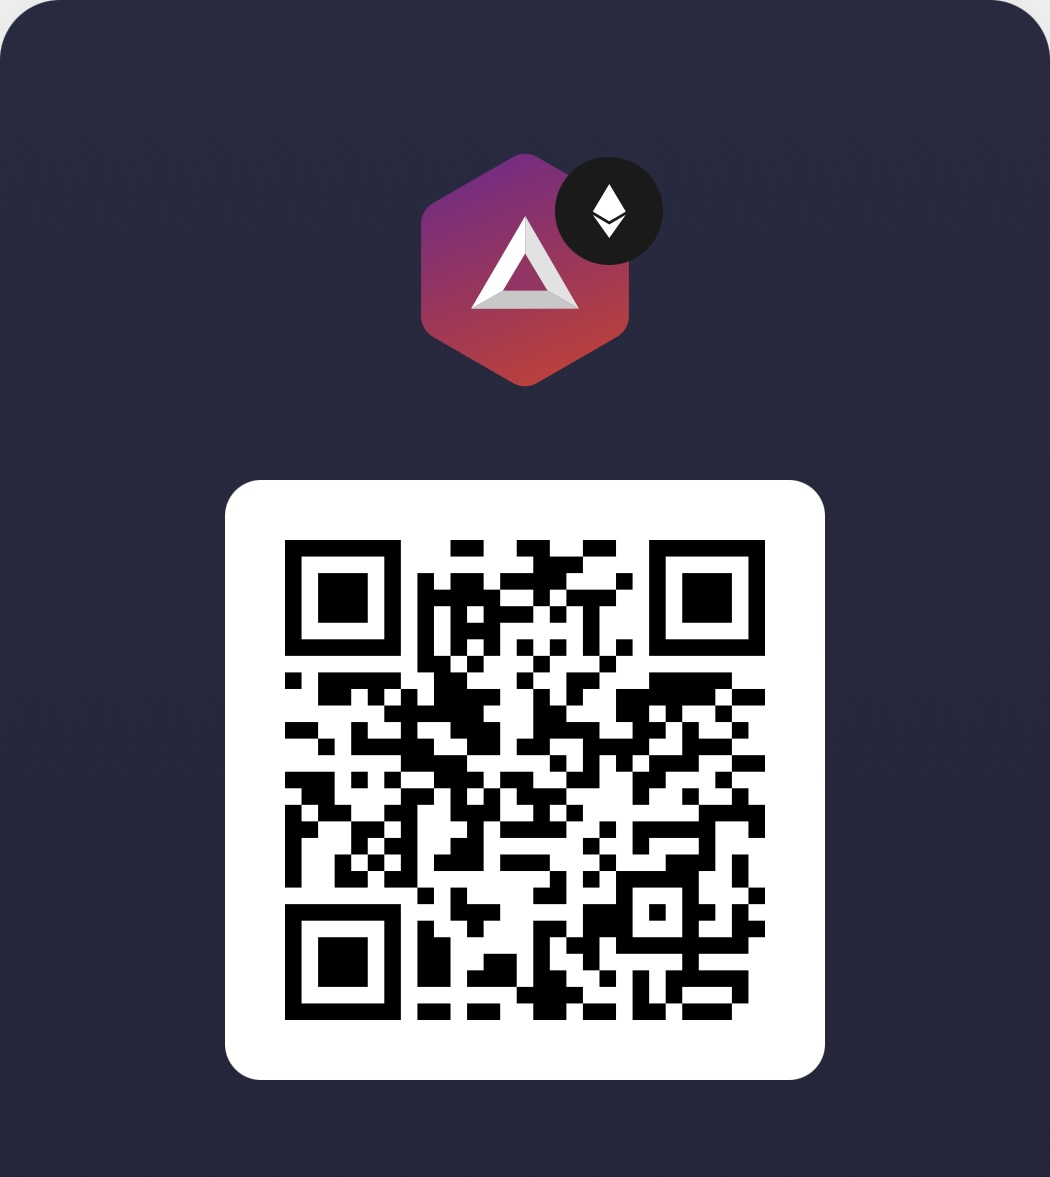
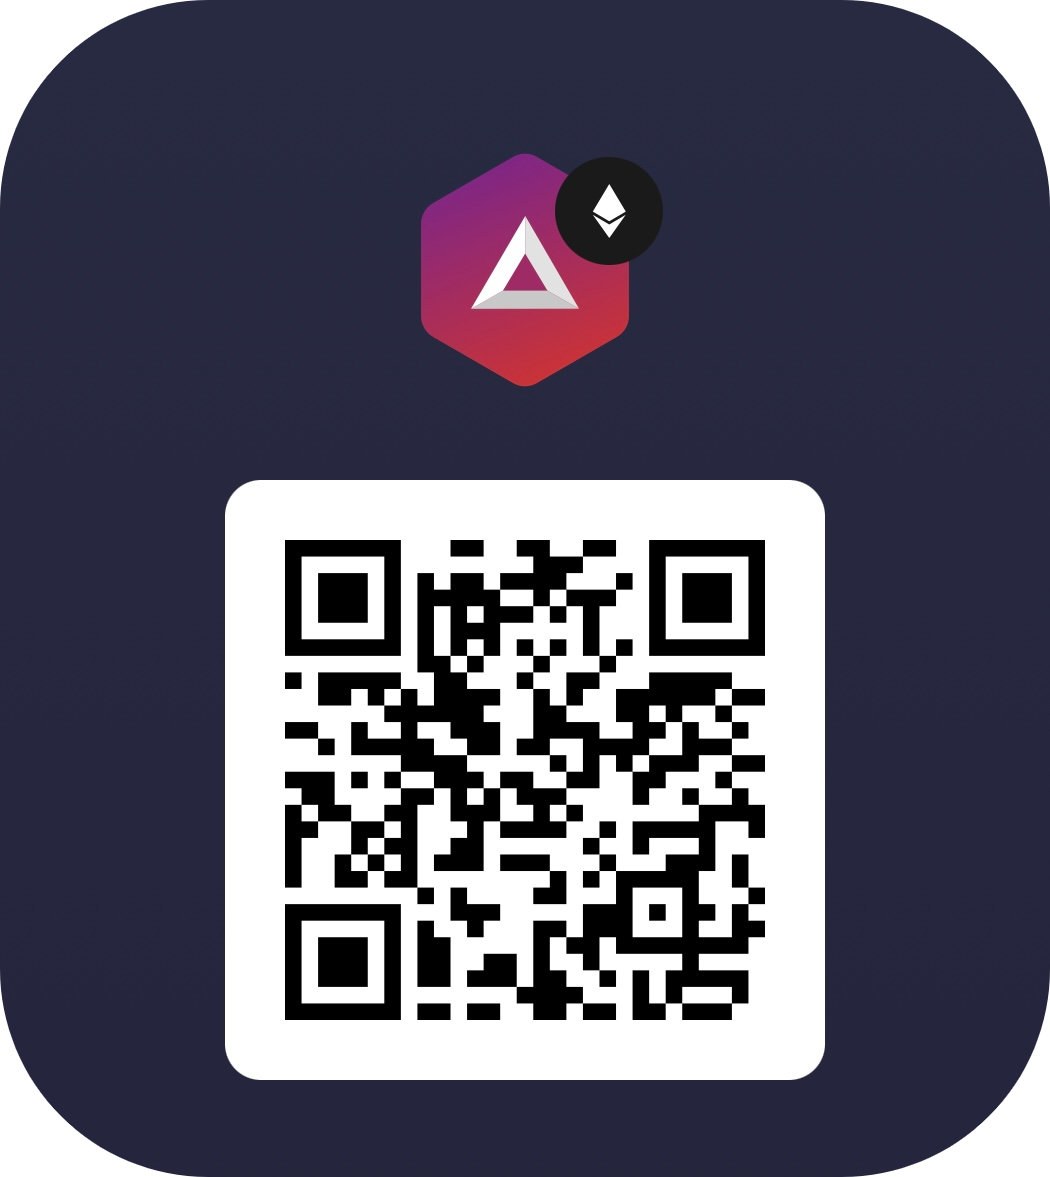
README update

diff --git a/README.md b/README.md
@@ -34,28 +34,28 @@
   <table>
     <tr>
       <td align="center">
-        <img src="./assets/images/QR/btc_adress.png" width="150" style="border-radius: 10px" />
+        <img src="./assets/images/QR/btc_adress.png" width="150"/>
         <br />
         <strong>BTC</strong>
         <br />
         <code>bc1q0m5e0lp73m20skkj9cc2purvl43ch3lslxkh63</code>
       </td>
       <td align="center">
-        <img src="./assets/images/QR/eth_adress.png" width="150" style="border-radius: 10px" />
+        <img src="./assets/images/QR/eth_adress.png" width="150"/>
         <br />
         <strong>ETH</strong>
         <br />
         <code>0xdf25A33FbCb8aBDb7727A6E31A4eA619B9Df4546</code>
       </td>
       <td align="center">
-        <img src="./assets/images/QR/bat-eth_adress.png" width="150" style="border-radius: 10px" />
+        <img src="./assets/images/QR/bat-eth_adress.png" width="150"/>
         <br />
         <strong>BAT (ETH)</strong>
         <br />
         <code>0xdf25A33FbCb8aBDb7727A6E31A4eA619B9Df4546</code>
       </td>
       <td align="center">
-        <img src="./assets/images/QR/ltc_adress.png" width="150" style="border-radius: 10px" />
+        <img src="./assets/images/QR/ltc_adress.png" width="150"/>
         <br />
         <strong>LTC</strong>
         <br />
